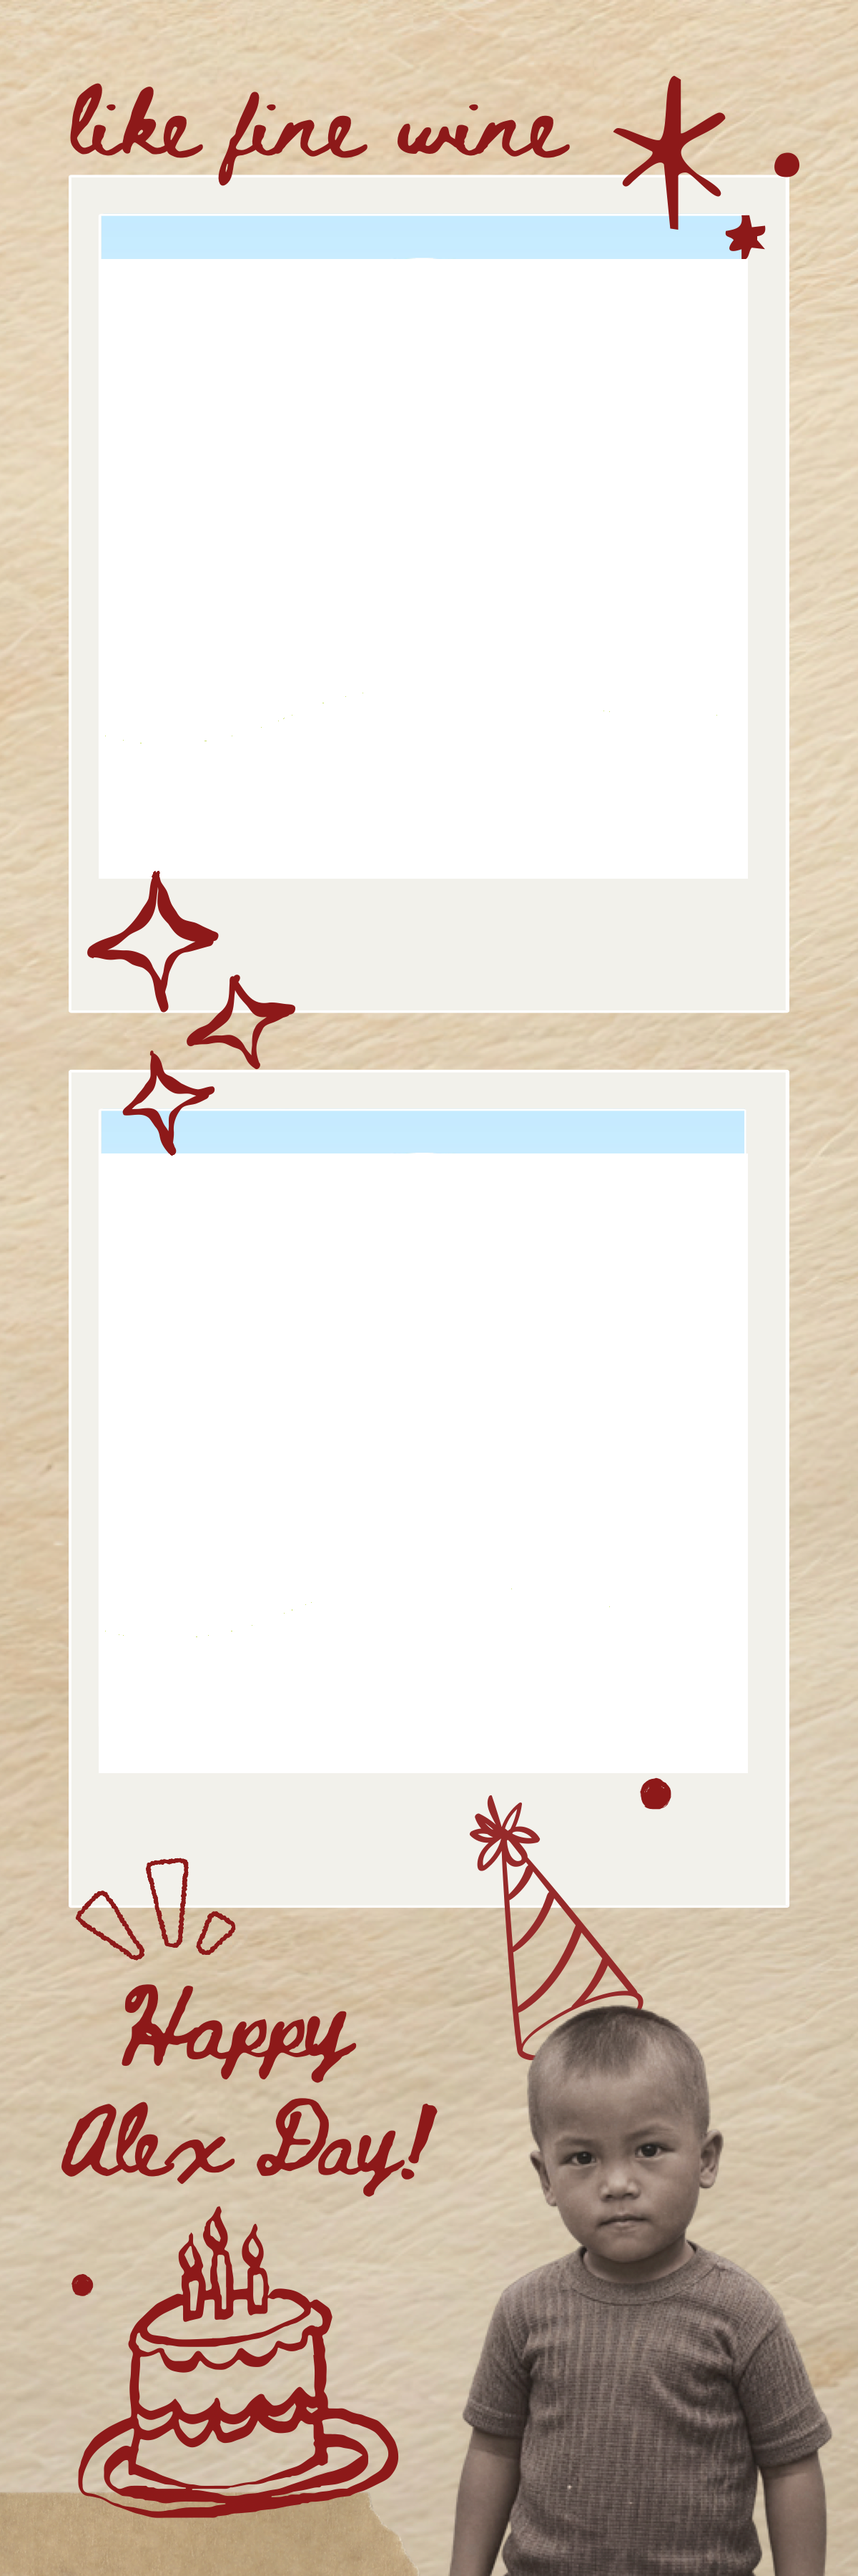
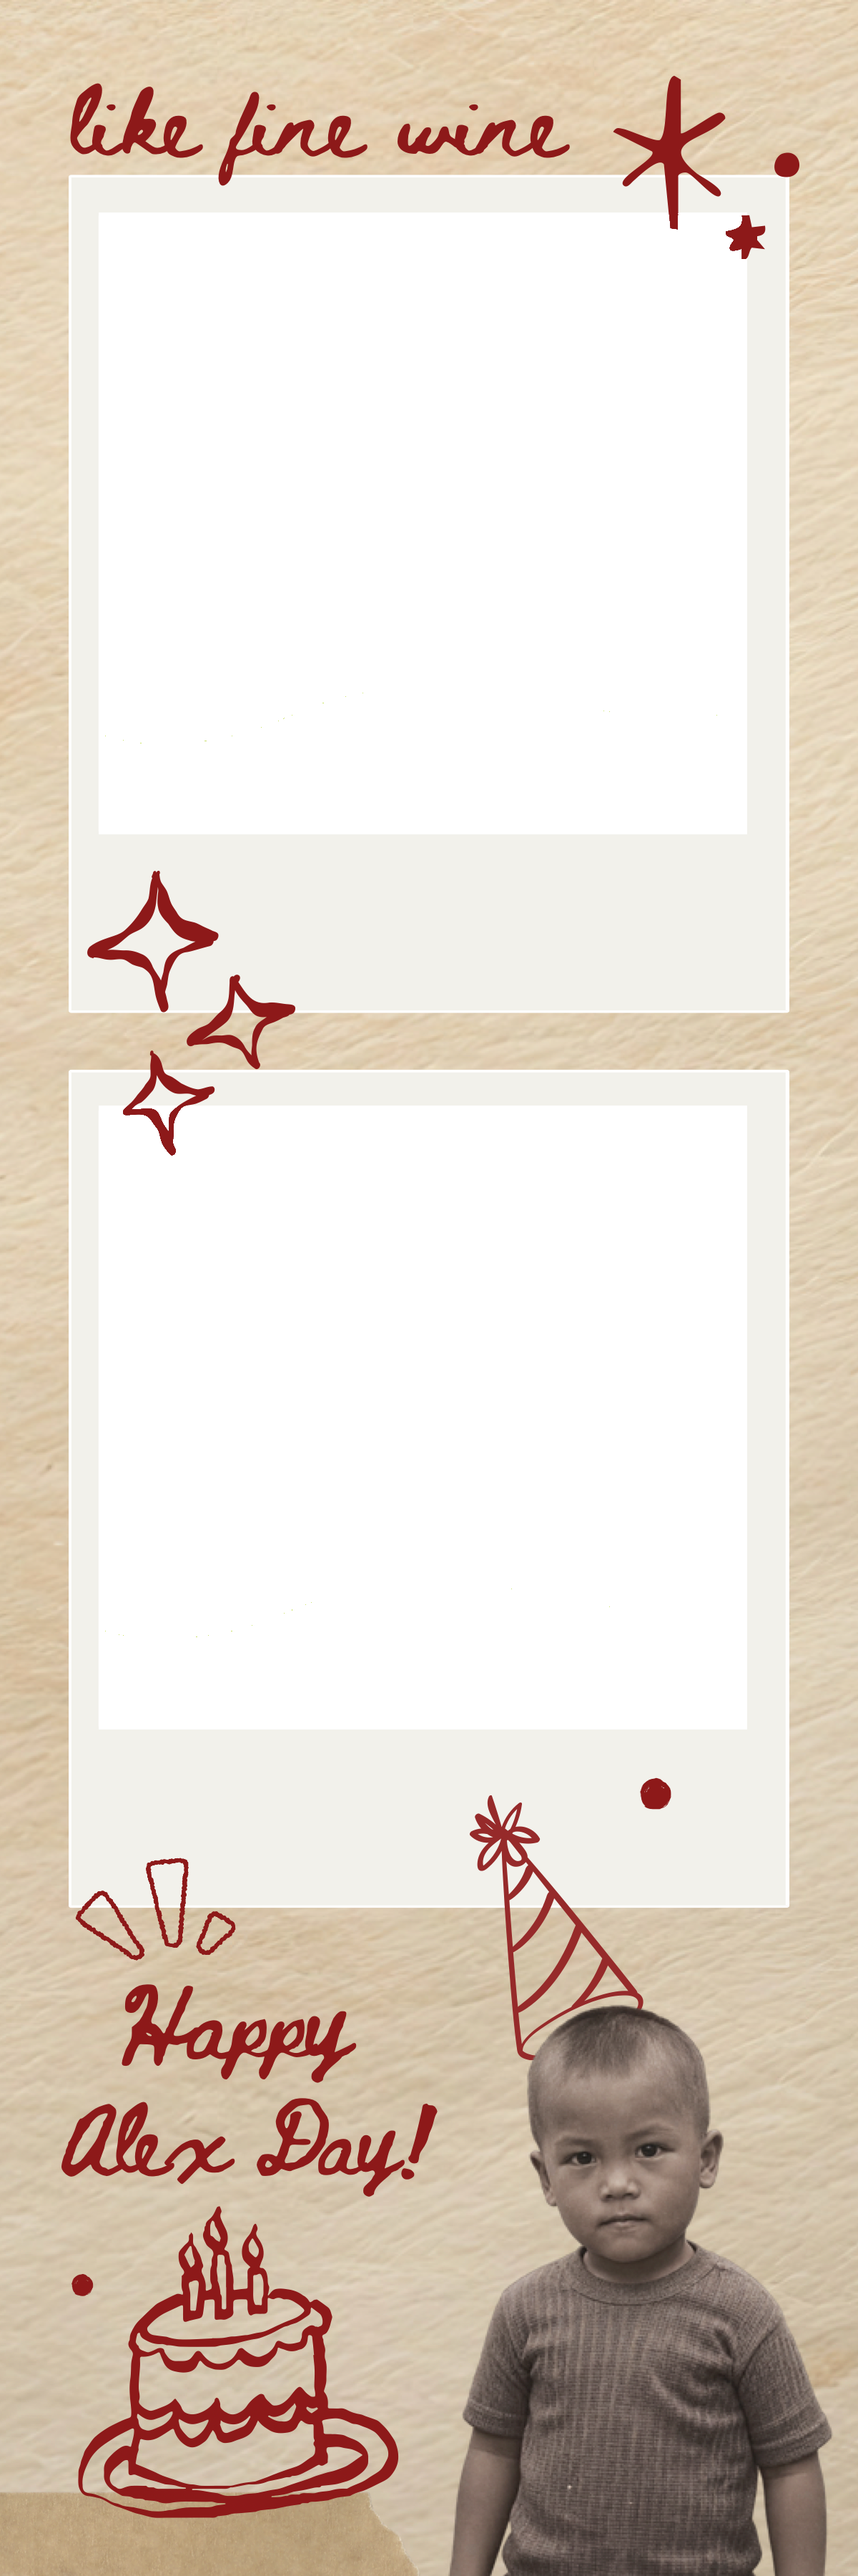
Sharp vector-rendered birthday frames with exact photo windows

Changed region(s): [[0.1233, 0.0622, 0.8633, 0.1244], [0.1233, 0.4044, 0.8633, 0.4667]]

diff --git a/index.html b/index.html
@@ -312,9 +312,9 @@ function frameLayout(key,name,wins,bg){const img=new Image();img.src=`templates/
       wins.forEach(([x0,y0,x1,y1],i)=>cover(ctx,p[i],x0-2,y0-2,x1-x0+5,y1-y0+5));
       if(img.complete&&img.naturalWidth)ctx.drawImage(img,0,0,W,H);}};}
 frameLayout('voltes','Voltes V',[[39,255,549,538],[39,574,549,859],[39,897,549,1158],[39,1193,549,1466]],'#1b2650');
-frameLayout('film','Birthday Film',[[124,152,473,502],[125,534,474,885],[125,913,474,1265],[125,1292,474,1644]],'#5a3a26');
-frameLayout('alex1','Alex Day',[[71,183,520,611],[71,808,520,1236]],'#efe6d6');
-frameLayout('alex2','Alex Day II',[[71,183,520,611],[71,808,520,1236]],'#efe6d6');
+frameLayout('film','Birthday Film',[[123,152,476,506],[123,533,476,887],[123,912,476,1267],[123,1292,476,1647]],'#5a3a26');
+frameLayout('alex1','Alex Day',[[71,150,520,581],[71,774,520,1206]],'#efe6d6');
+frameLayout('alex2','Alex Day II',[[71,150,520,581],[71,774,520,1206]],'#efe6d6');
 
 function textFor(key){const o={};L[key].fields.forEach(([k,,def])=>{const v=state.text[key+'.'+k];o[k]=(v==null?def:v);});return o;}
 async function loadFonts(t){await Promise.all(Object.values(OVER).map(i=>i.decode().catch(()=>{})));const sample=Object.values(t||{}).join('')+'Aa안녕하세요!';
